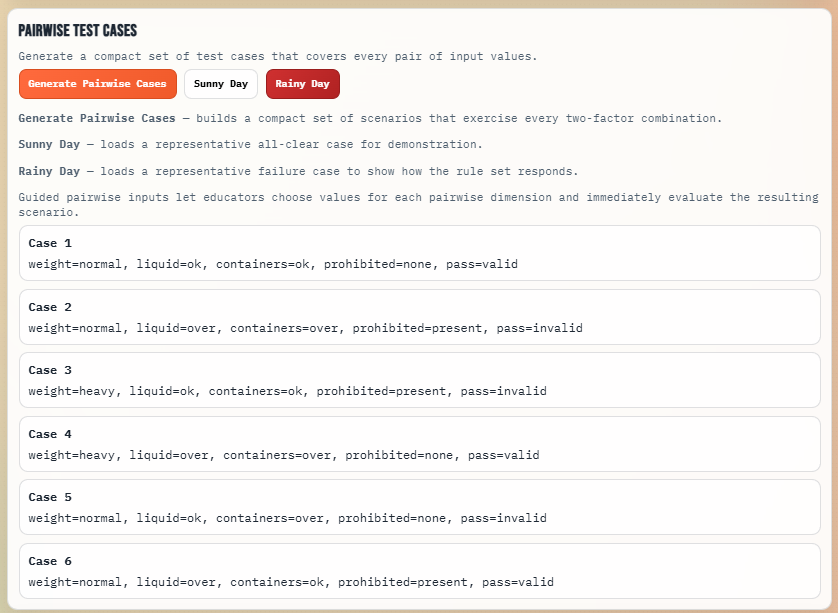
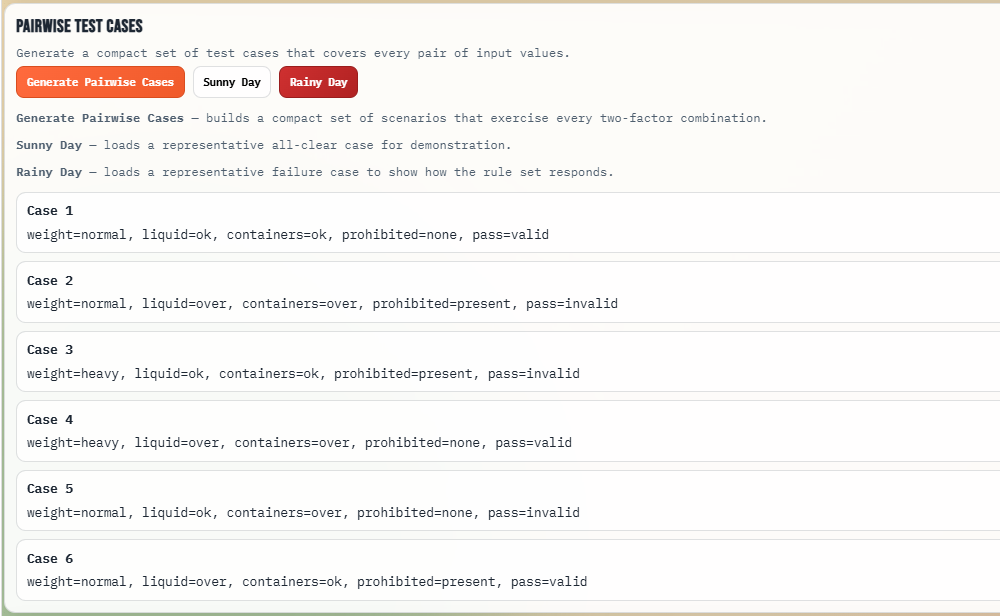
Update Week5 V2 app behavior and documentation

Changed region(s): [[0.0, 0.0, 1.0, 1.0]]

diff --git a/group-project-writeup/Week5/airline-security-game/app-v2.js b/group-project-writeup/Week5/airline-security-game/app-v2.js
@@ -23,44 +23,44 @@ const PAIRWISE_VALUE_MAP = {
 const DEFAULT_DECISION_TABLE = [
   {
     id: "R1",
-    title: "",
-    conditions: { weightOk: "", liquidOk: "", containersOk: "", noProhibited: "", validPass: "" },
+    title: "Sunny Day — All conditions pass",
+    conditions: { weightOk: "T", liquidOk: "T", containersOk: "T", noProhibited: "T", validPass: "T" },
     action: "",
   },
   {
     id: "R2",
-    title: "",
-    conditions: { weightOk: "", liquidOk: "", containersOk: "", noProhibited: "", validPass: "" },
+    title: "Rainy Day — Overweight",
+    conditions: { weightOk: "T", liquidOk: "T", containersOk: "T", noProhibited: "T", validPass: "T" },
     action: "",
   },
   {
     id: "R3",
-    title: "",
-    conditions: { weightOk: "", liquidOk: "", containersOk: "", noProhibited: "", validPass: "" },
+    title: "Rainy Day — Too much liquid",
+    conditions: { weightOk: "T", liquidOk: "T", containersOk: "T", noProhibited: "T", validPass: "T" },
     action: "",
   },
   {
     id: "R4",
-    title: "",
-    conditions: { weightOk: "", liquidOk: "", containersOk: "", noProhibited: "", validPass: "" },
+    title: "Rainy Day — Too many containers",
+    conditions: { weightOk: "T", liquidOk: "T", containersOk: "T", noProhibited: "T", validPass: "T" },
     action: "",
   },
   {
     id: "R5",
-    title: "",
-    conditions: { weightOk: "", liquidOk: "", containersOk: "", noProhibited: "", validPass: "" },
+    title: "Rainy Day — Prohibited item",
+    conditions: { weightOk: "T", liquidOk: "T", containersOk: "T", noProhibited: "T", validPass: "T" },
     action: "",
   },
   {
     id: "R6",
-    title: "",
-    conditions: { weightOk: "", liquidOk: "", containersOk: "", noProhibited: "", validPass: "" },
+    title: "Rainy Day — Invalid boarding pass",
+    conditions: { weightOk: "T", liquidOk: "T", containersOk: "T", noProhibited: "T", validPass: "T" },
     action: "",
   },
   {
     id: "R7",
-    title: "",
-    conditions: { weightOk: "", liquidOk: "", containersOk: "", noProhibited: "", validPass: "" },
+    title: "Rainy Day — Multiple failures",
+    conditions: { weightOk: "T", liquidOk: "T", containersOk: "T", noProhibited: "T", validPass: "T" },
     action: "",
   },
 ];
@@ -90,10 +90,24 @@ const dom = {
   pairwiseContainers: document.getElementById("pairwise-containers"),
   pairwiseProhibited: document.getElementById("pairwise-prohibited"),
   pairwisePassValid: document.getElementById("pairwise-pass-valid"),
-  evaluatePairwiseGuidedBtn: document.getElementById("evaluate-pairwise-guided-btn"),
+  evaluatePairwiseGuidedBtn: document.getElementById("evaluate-pairwise-guided-btn"),  pairwiseWeight: document.getElementById("pairwise-weight"),
+  pairwiseLiquid: document.getElementById("pairwise-liquid"),
+  pairwiseContainers: document.getElementById("pairwise-containers"),
+  pairwiseProhibited: document.getElementById("pairwise-prohibited"),
+  pairwisePassValid: document.getElementById("pairwise-pass-valid"),  pairwiseWeight: document.getElementById("pairwise-weight"),
+  pairwiseLiquid: document.getElementById("pairwise-liquid"),
+  pairwiseContainers: document.getElementById("pairwise-containers"),
+  pairwiseProhibited: document.getElementById("pairwise-prohibited"),
+  pairwisePassValid: document.getElementById("pairwise-pass-valid"),
+  pairwiseWeight: document.getElementById("pairwise-weight"),
+  pairwiseLiquid: document.getElementById("pairwise-liquid"),
+  pairwiseContainers: document.getElementById("pairwise-containers"),
+  pairwiseProhibited: document.getElementById("pairwise-prohibited"),
+  pairwisePassValid: document.getElementById("pairwise-pass-valid"),
   pairwiseGuidedForm: document.getElementById("pairwise-guided-form"),
   pairwiseResults: document.getElementById("pairwise-results"),
   matchedRule: document.getElementById("matched-rule"),
+
   tableVerdictLabel: document.getElementById("table-verdict"),
   policyVerdictLabel: document.getElementById("policy-verdict"),
   pairwiseMatchedRule: document.getElementById("pairwise-matched-rule"),
@@ -264,10 +278,9 @@ function renderDecisionTable() {
         const input = document.createElement("input");
         input.value = rule.title;
         input.className = "select-cell";
-        input.addEventListener("change", (event) => {
-          state.decisionTable[ruleIndex].title = event.target.value;
-          renderDecisionTable();
-        });
+        input.readOnly = true;
+        input.style.background = "#f0f0f0";
+        input.style.cursor = "default";
         td.appendChild(input);
       } else if (row.type === "action") {
         const actionSelect = document.createElement("select");
@@ -501,11 +514,11 @@ function renderPairwiseCases() {
 
 function getPairwiseGuidedEntry() {
   return {
-    weight: dom.pairwiseWeight.value,
-    liquid: dom.pairwiseLiquid.value,
-    containers: dom.pairwiseContainers.value,
-    prohibited: dom.pairwiseProhibited.value,
-    passValid: dom.pairwisePassValid.value,
+    weightKg: Number(dom.pairwiseWeight.value),
+    liquidsMl: Number(dom.pairwiseLiquid.value),
+    containerCount: Number(dom.pairwiseContainers.value),
+    prohibited: dom.pairwiseProhibited.checked,
+    passValid: dom.pairwisePassValid.checked,
   };
 }
 
@@ -519,7 +532,7 @@ function submitPairwiseCase() {
     }
   }
   const entry = getPairwiseGuidedEntry();
-  const passenger = makePassenger(mapPairwiseToPassenger(entry));
+  const passenger = makePassenger(entry);
   const tableResult = evaluateDecisionTable(passenger);
   const policyResult = policyDecision(passenger);
   state.evaluationCount += 1;
@@ -600,6 +613,8 @@ function toggleEducatorMode() {
   dom.educatorPanel.classList.toggle("hidden", !isEducator);
   dom.pairwiseGuidedForm.classList.toggle("hidden", !isEducator);
   dom.pairwiseResults.classList.toggle("hidden", !isEducator);
+  const pairwiseNote = document.getElementById("pairwise-note");
+  if (pairwiseNote) pairwiseNote.classList.toggle("hidden", !isEducator);
   setBanner(isEducator ? "Educator Mode is on. Use guided input to build scenarios." : "Fully editable decision table mode is active.");
 }
 
@@ -625,8 +640,8 @@ function resetApp() {
   dom.pairwiseWeight.value = "normal";
   dom.pairwiseLiquid.value = "ok";
   dom.pairwiseContainers.value = "ok";
-  dom.pairwiseProhibited.value = "none";
-  dom.pairwisePassValid.value = "valid";
+  dom.pairwiseProhibited.checked = "none";
+  dom.pairwisePassValid.checked = "valid";
   dom.pairwiseList.innerHTML = "";
   refreshStats();
   setBanner("App reset. Edit the decision table or turn on Educator Mode to begin.");

diff --git a/group-project-writeup/Week5/airline-security-game/index-v2.html b/group-project-writeup/Week5/airline-security-game/index-v2.html
@@ -128,42 +128,27 @@
         <p><strong>Sunny Day</strong> — loads a representative all-clear case for demonstration.</p>
         <p><strong>Rainy Day</strong> — loads a representative failure case to show how the rule set responds.</p>
       </div>
-      <div class="panel-note">Guided pairwise inputs let educators choose values for each pairwise dimension and immediately evaluate the resulting scenario.</div>
+      <div id="pairwise-note" class="panel-note educator-only hidden">Pairwise inputs are editable. Enter numeric values and boolean choices to define your test case.</div>
       <form id="pairwise-guided-form" class="guided-form pairwise-guided-form">
         <label>
-          Weight group
-          <select id="pairwise-weight" class="select-cell">
-            <option value="normal">normal (≤ 7kg)</option>
-            <option value="heavy">heavy (> 7kg)</option>
-          </select>
+          Bag Weight (kg)
+          <input id="pairwise-weight" class="input-cell" type="number" step="0.1" placeholder="e.g. 6.2" min="0" max="20">
         </label>
         <label>
-          Liquid group
-          <select id="pairwise-liquid" class="select-cell">
-            <option value="ok">ok (≤ 100ml)</option>
-            <option value="over">over (> 100ml)</option>
-          </select>
+          Liquid Volume (ml)
+          <input id="pairwise-liquid" class="input-cell" type="number" step="1" placeholder="e.g. 80" min="0" max="250">
         </label>
         <label>
-          Container group
-          <select id="pairwise-containers" class="select-cell">
-            <option value="ok">ok (≤ 3)</option>
-            <option value="over">over (> 3)</option>
-          </select>
+          Container Count
+          <input id="pairwise-containers" class="input-cell" type="number" step="1" placeholder="e.g. 2" min="0" max="10">
         </label>
-        <label>
-          Prohibited item
-          <select id="pairwise-prohibited" class="select-cell">
-            <option value="none">none</option>
-            <option value="present">present</option>
-          </select>
+        <label class="checkbox-label">
+          <input id="pairwise-prohibited" type="checkbox">
+          Contains prohibited item
         </label>
-        <label>
-          Boarding pass
-          <select id="pairwise-pass-valid" class="select-cell">
-            <option value="valid">valid</option>
-            <option value="invalid">invalid</option>
-          </select>
+        <label class="checkbox-label">
+          <input id="pairwise-pass-valid" type="checkbox" checked>
+          Boarding pass valid
         </label>
         <button id="evaluate-pairwise-guided-btn" type="button" class="btn btn-primary">Submit Pairwise Case</button>
       </form>

diff --git a/group-project-writeup/Week5/airline-security-game/styles.css b/group-project-writeup/Week5/airline-security-game/styles.css
@@ -56,8 +56,8 @@ body {
 }
 
 .layout {
-  width: min(1100px, 94vw);
-  margin: 20px auto 40px;
+  width: calc(100vw - 24px);
+  margin: 12px auto 20px;
   display: grid;
   gap: 14px;
   position: relative;
@@ -217,17 +217,19 @@ h3 {
 }
 
 .decision-table {
-  width: 100%;
+  width: auto;
+  min-width: 100%;
   border-collapse: collapse;
+  table-layout: auto;
 }
 
 .decision-table th,
 .decision-table td {
   border: 1px solid var(--line);
-  padding: 10px 8px;
+  padding: 8px 6px;
   text-align: center;
   vertical-align: middle;
-  min-width: 110px;
+  min-width: 80px;
 }
 
 .decision-table th {
@@ -244,6 +246,11 @@ h3 {
   background: rgba(255, 255, 255, 0.9);
   font-family: inherit;
   font-size: 0.95rem;
+}
+
+.decision-table input[readonly] {
+  min-width: 200px;
+  white-space: nowrap;
 }
 
 .guided-form {

diff --git a/group-project-writeup/Week5/Decision_Tables_and_Pairwise_Testing_Writeup.md b/group-project-writeup/Week5/Decision_Tables_and_Pairwise_Testing_Writeup.md
@@ -102,6 +102,15 @@ The **Airport Security Decision Table Lab** (`airline-security-game/`) is a web 
 3. **Generate Pairwise Test Cases** — Automatically create a compact set of scenarios covering all parameter pairs
 4. **Evaluate Sunny Day and Rainy Day Scenarios** — Test representative pass and fail cases
 
+**Version 2** (`index-v2.html` / `app-v2.js`) extends the original with a student-focused workflow:
+
+- **Goal Section** — A visible banner at the top explains the task before the user begins
+- **Blank Decision Table** — All condition and action cells start empty; rule titles are prefilled and read-only to control fill order
+- **Submit Decision Table Button** — Users submit their completed table to check their work
+- **Editable Pairwise Inputs** — Weight, liquid, containers, prohibited, and boarding pass are free-form numeric/checkbox inputs rather than preset dropdowns
+- **Submit Pairwise Case Button** — Users submit a custom test case for immediate evaluation
+- **Educator-Mode Pairwise Hint** — The instructional note for pairwise inputs is hidden by default and appears only when Educator Mode is enabled
+
 #### Application Interface
 ![Main App Interface](images/week5_vibecoding_interface.png)
 
@@ -113,10 +122,13 @@ The **Airport Security Decision Table Lab** (`airline-security-game/`) is a web 
 - **Vanilla JavaScript** — No dependencies; all logic implemented in pure JS
 
 #### Key Files
-- `index.html` — UI structure with decision table, guided input forms, and scenario display
-- `app.js` — Core logic: decision table evaluation, pairwise generation, passenger scenario creation
-- `styles.css` — Responsive design and accessibility styling
-- `README.md` — Quick reference guide
+- `index.html` — Original UI structure with decision table, guided input forms, and scenario display
+- `app.js` — Original core logic: decision table evaluation, pairwise generation, passenger scenario creation
+- `index-v2.html` — Version 2 UI: adds Goal section, prefilled rule titles, blank decision table, submit buttons, and educator-mode-gated pairwise note
+- `app-v2.js` — Version 2 logic: blank default decision table, submit/validation handlers, read-only title cells
+- `styles.css` — Responsive design and accessibility styling (shared by both versions)
+- `README.md` — Quick reference guide (v1)
+- `README-v2.md` — Quick reference guide for Version 2
 
 ### Policy Rules
 
@@ -136,17 +148,19 @@ ELSE
 
 ### Decision Table
 
-The application includes a 7-rule decision table:
+The application includes a 7-rule decision table. In Version 1 all cells are pre-filled; in Version 2 the condition and action cells start blank and the user must complete them.
 
-| Rule | Weight ≤ 7 | Liquid ≤ 100 | Containers ≤ 3 | No Prohibited | Pass Valid | Action |
-|------|-----------|-------------|----------------|--------------|----------|--------|
-| R1   | T         | T           | T              | T            | T        | CLEAR  |
-| R2   | F         | T           | T              | T            | T        | HOLD   |
-| R3   | T         | F           | T              | T            | T        | HOLD   |
-| R4   | T         | T           | F              | T            | T        | HOLD   |
-| R5   | T         | T           | T              | F            | T        | HOLD   |
-| R6   | T         | T           | T              | T            | F        | HOLD   |
-| R7   | F         | F           | F              | F            | F        | HOLD   |
+| Rule | Title | Weight ≤ 7 | Liquid ≤ 100 | Containers ≤ 3 | No Prohibited | Pass Valid | Action |
+|------|-------|-----------|-------------|----------------|--------------|----------|--------|
+| R1   | Sunny Day — All conditions pass     | T | T | T | T | T | CLEAR |
+| R2   | Rainy Day — Overweight              | F | T | T | T | T | HOLD  |
+| R3   | Rainy Day — Too much liquid         | T | F | T | T | T | HOLD  |
+| R4   | Rainy Day — Too many containers     | T | T | F | T | T | HOLD  |
+| R5   | Rainy Day — Prohibited item         | T | T | T | F | T | HOLD  |
+| R6   | Rainy Day — Invalid boarding pass   | T | T | T | T | F | HOLD  |
+| R7   | Rainy Day — Multiple failures       | F | F | F | F | F | HOLD  |
+
+> **Version 2 note:** Rule titles are prefilled and read-only in the UI so the fill order is controlled. All condition cells default to **T** — students flip only the conditions that should be F or - for each rule. The action column starts blank (CLEAR/HOLD). Click **Submit Decision Table** to verify the completed work.
 
 ### Sunny Day Scenario
 
@@ -448,18 +462,29 @@ This mirrors agile development and aligns with how humans naturally think about 
 
 ### Appendix A: Running the Application Locally
 
+**Version 1 (original):**
 1. Open `airline-security-game/index.html` in a modern web browser (Chrome, Firefox, Safari, Edge).
 2. Use the editable decision table to modify rules.
 3. Toggle "Educator Mode" to enable guided input and pairwise scenario builder.
 4. Click "Generate Pairwise Cases" to create a compact test set.
 5. Evaluate "Sunny Day" and "Rainy Day" scenarios to compare policy vs. decision table verdicts.
 
+**Version 2 (student-facing):**
+1. Open `airline-security-game/index-v2.html` in a modern web browser.
+2. Read the **Goal** section to understand the task.
+3. Fill in the blank decision table — rule titles are prefilled; complete the condition and action columns.
+4. Click **Submit Decision Table** to check your rules.
+5. Enter values in the Pairwise Test Case inputs (weight, liquid, containers, prohibited item, boarding pass).
+6. Click **Submit Pairwise Case** to evaluate your scenario against the policy.
+7. Toggle **Educator Mode** to reveal the pairwise input hint and the guided scenario builder.
+
 ### Appendix B: Decision Table Editing Rules
 
 - **Row Conditions:** T (True), F (False), or - (Don't Care)
 - **Action Column:** CLEAR or HOLD
-- **Rule Title:** Descriptive label for the rule
-- **Editing:** All cells are live-editable; changes take effect immediately
+- **Rule Title:** Prefilled and read-only in Version 2 (controls the fill order); editable in Version 1
+- **Editing:** Condition and action cells are live-editable via dropdown selects; changes take effect immediately
+- **Submit:** In Version 2, click **Submit Decision Table** after completing all cells to validate your work
 
 ### Appendix C: Pairwise Parameter Mapping
 
